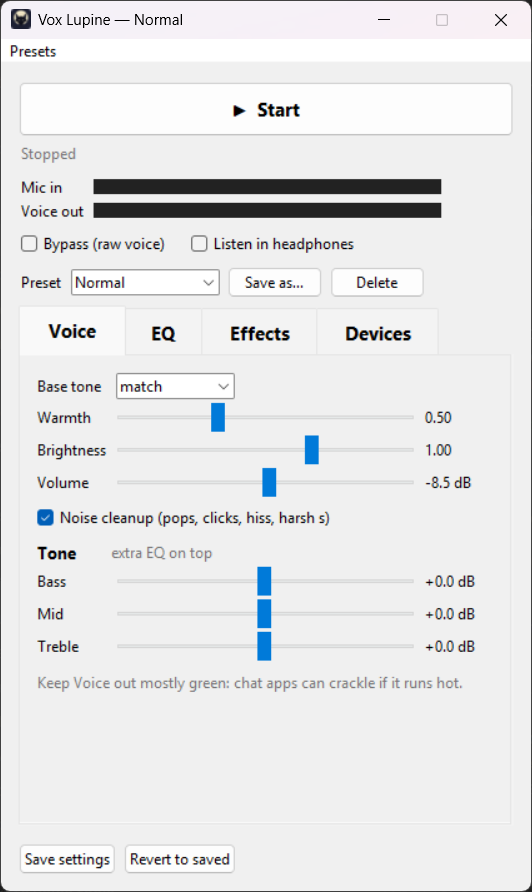
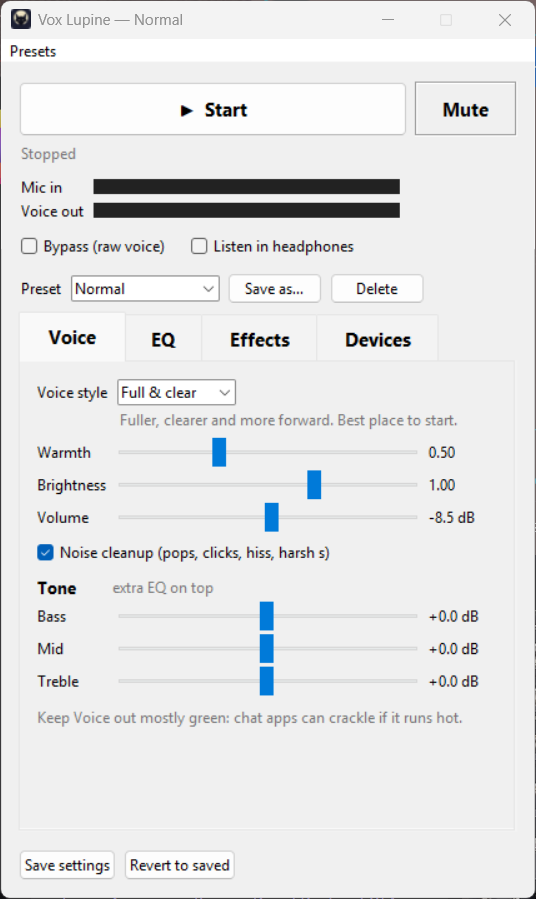
Rename "Base tone" to "Voice style" with friendly names
subtle/match/husky/none meant nothing to new users. The dropdown now shows
Full & clear, Light polish, Husky and Off, with a one-line description under
it. Saved settings and presets keep the old internal names, so nothing
existing breaks.

diff --git a/app.py b/app.py
@@ -19,7 +19,16 @@ from micaccess import mic_access_problems
 from fx import DEFAULTS as FX_DEFAULTS, MOD_TYPES
 from presets import PRESETS
 
-PRESET_CHOICES = ["none"] + list(PRESETS)
+# "Voice style" = the base EQ + levelling every other control builds on. Settings keep
+# the internal names (none/subtle/match/husky); the window shows friendly ones.
+STYLES = {  # internal name -> (shown name, one-line description)
+    None: ("Off", "Your mic as it is: no shaping or levelling (quieter)."),
+    "subtle": ("Light polish", "A gentle lift: a bit more body and clarity."),
+    "match": ("Full & clear", "Fuller, clearer and more forward. Best place to start."),
+    "husky": ("Husky", "Full & clear plus a soft, smoky rasp."),
+}
+assert set(STYLES) - {None} == set(PRESETS)
+STYLE_BY_LABEL = {label: key for key, (label, _) in STYLES.items()}
 def resource(rel):
     """Path to a bundled file, both from source and inside the built .exe."""
     import sys
@@ -265,9 +274,13 @@ class App:
 
     def _voice_tab(self, f):
         r = 0
-        r = self._combo(f, r, "preset", "Base tone", PRESET_CHOICES,
-                        to_cfg=lambda v: None if v == "none" else v,
-                        from_cfg=lambda v: v or "none")
+        r = self._combo(f, r, "preset", "Voice style", [label for label, _ in STYLES.values()],
+                        to_cfg=STYLE_BY_LABEL.get,
+                        from_cfg=lambda v: STYLES.get(v, STYLES[None])[0])
+        self.style_hint = ttk.Label(f, style="Hint.TLabel")
+        self.style_hint.grid(row=r, column=1, columnspan=2, sticky="w", padx=6, pady=(0, 4))
+        self._show_style_hint()
+        r += 1
         r = self._slider(f, r, "warmth", "Warmth", 0, 1.5, 0.05, "{:.2f}")
         r = self._slider(f, r, "bright", "Brightness", 0, 1.5, 0.05, "{:.2f}")
         r = self._slider(f, r, "volume_db", "Volume", -24, 6, 0.5, "{:+.1f} dB")
@@ -327,9 +340,14 @@ class App:
         except Exception as e:  # device failed to open
             messagebox.showerror(APP_NAME, str(e))
             self.engine.stop()
+        if key == "preset":
+            self._show_style_hint()
         if self.eqgraph and key in BASE_KEYS:
             self.eqgraph.redraw()       # the whole-voice curve depends on these
         self.update_dirty()
+
+    def _show_style_hint(self):
+        self.style_hint.config(text=STYLES.get(self.engine.cfg["preset"], STYLES[None])[1])
 
     def set_value(self, key, value):
         """Change a setting and move its widget to match."""

diff --git a/presets.py b/presets.py
@@ -1,6 +1,7 @@
-"""The voice chain and its "base tone" EQs.
+"""The voice chain and its "voice style" EQs (shown in the app as Light polish,
+Full & clear and Husky; see STYLES in app.py).
 
-Voice = cleanup -> warmth -> brightness -> base tone -> effects -> volume.
+Voice = cleanup -> warmth -> brightness -> voice style -> effects -> volume.
 Everything is zero/low-latency: filters, dynamics and light saturation only
 (no pitch shifting), so it runs in real time with a few ms of processing delay.
 """

diff --git a/README.md b/README.md
@@ -10,7 +10,7 @@ processed voice. Made with streamers and PNGtubers in mind.
 
 - **Cleanup:** rumble filter, de-popper for plosives, de-esser, and a smart noise gate
   that ignores keyboard clicks
-- **Tone:** warmth, brightness, a few "base tones", and bass/mid/treble
+- **Tone:** warmth, brightness, a choice of voice styles, and bass/mid/treble
 - **Draggable 5-point EQ** with a live curve, plus built-in EQ presets for speech
 - **Effects:** grit/growl, radio, chorus/vibrato/flanger/phaser/tremolo/robot, echo, reverb
 - **Presets:** save whole sounds and switch with **Ctrl+Alt+1–9 from anywhere**, even while a game has focus
@@ -28,7 +28,7 @@ It runs on your CPU and uses well under 1 ms per 5 ms audio chunk.
 
 | Voice | Effects |
 |---|---|
-| <img src="docs/screenshots/voice.png" width="330" alt="Voice tab: base tone, warmth, brightness, volume, cleanup, bass/mid/treble"> | <img src="docs/screenshots/effects.png" width="330" alt="Effects tab: grit, radio, modulation, echo, reverb"> |
+| <img src="docs/screenshots/voice.png" width="330" alt="Voice tab: voice style, warmth, brightness, volume, cleanup, bass/mid/treble"> | <img src="docs/screenshots/effects.png" width="330" alt="Effects tab: grit, radio, modulation, echo, reverb"> |
 | **Presets menu** | **Devices** |
 | <img src="docs/screenshots/presets-menu.png" width="330" alt="Presets menu with Ctrl+Alt+1-5 shortcuts"> | <img src="docs/screenshots/devices.png" width="330" alt="Devices tab: mic, VB-Cable output, headphones"> |
 
@@ -133,8 +133,15 @@ which is normal for any live voice processing.
 - **Listen in headphones**, with its own volume slider while it's on
 - **Preset** dropdown, and the **Presets** menu in the menu bar
 
-**Voice tab:** base tone (subtle / match / husky / none), warmth, brightness, volume,
-noise cleanup on/off, and bass/mid/treble.
+**Voice tab**
+- **Voice style** is the starting sound everything else builds on. A short description
+  appears under it when you pick one:
+  - **Full & clear** (default): fuller, clearer and more forward. Best place to start.
+  - **Light polish**: a gentler version for when Full & clear is too much.
+  - **Husky**: Full & clear plus a soft, smoky rasp.
+  - **Off**: your mic as it is, with no shaping or levelling, so it's quieter.
+- **Warmth**, **Brightness**, **Volume**, **Noise cleanup** on/off, and **Bass / Mid /
+  Treble** for extra tone on top.
 
 **EQ tab:** a 5-point EQ on a graph.
 - Drag a point left/right to change frequency and up/down to boost or cut.
@@ -195,7 +202,7 @@ and `tests\test_no_static.py` (no stage adds noise).
 ## How it works
 
 ```
-mic → cleanup → warmth → brightness → base tone → bass/mid/treble → 5-point EQ
+mic → cleanup → warmth → brightness → voice style → bass/mid/treble → 5-point EQ
     → effects → volume → soft safety ceiling → VB-Cable (+ optional headphones)
 ```
 
@@ -208,7 +215,7 @@ absorbs timing differences between the two devices.
 |---|---|
 | `app.py` | The window |
 | `engine.py` | Audio devices, buffering and settings |
-| `presets.py` | The voice chain and base tones |
+| `presets.py` | The voice chain and voice styles |
 | `cleanup.py`, `warmth.py`, `bright.py`, `fx.py`, `peq.py` | Processing stages |
 | `eqgraph.py` | The EQ tab |
 | `hotkeys.py` | Global Ctrl+Alt+1–9 |
